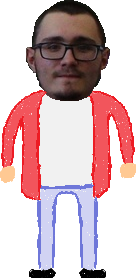
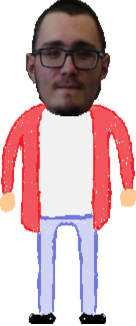
Fixed troubles with images

diff --git a/player.py b/player.py
@@ -17,8 +17,8 @@ class Player:
         self.y = 0
         self.vx = 0
         self.vy = 0
-        self.w = 40
-        self.h = 60
+        self.w = 20
+        self.h = 50
         self.place_up = True
         self.place_right = True
         self.place_down = True
